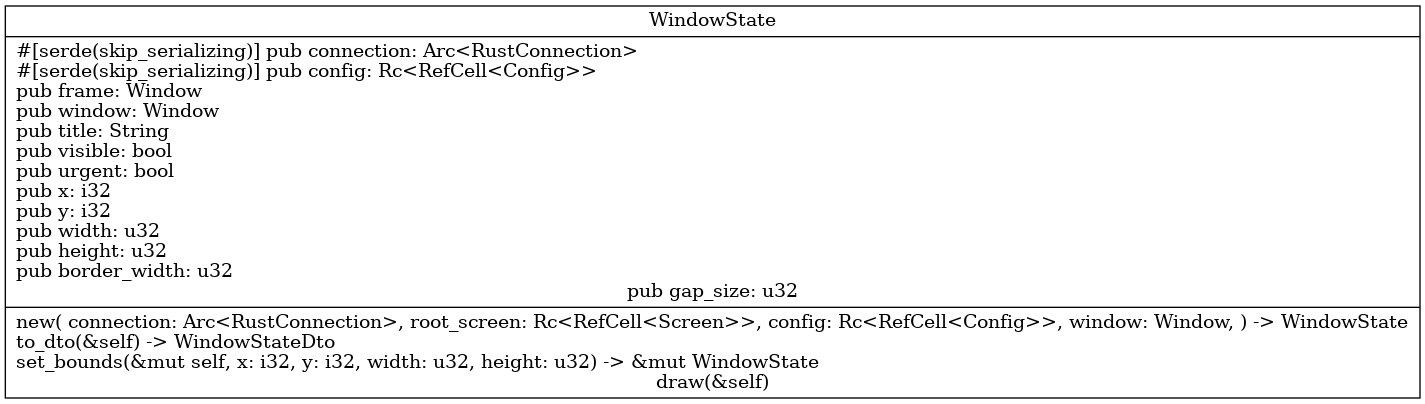
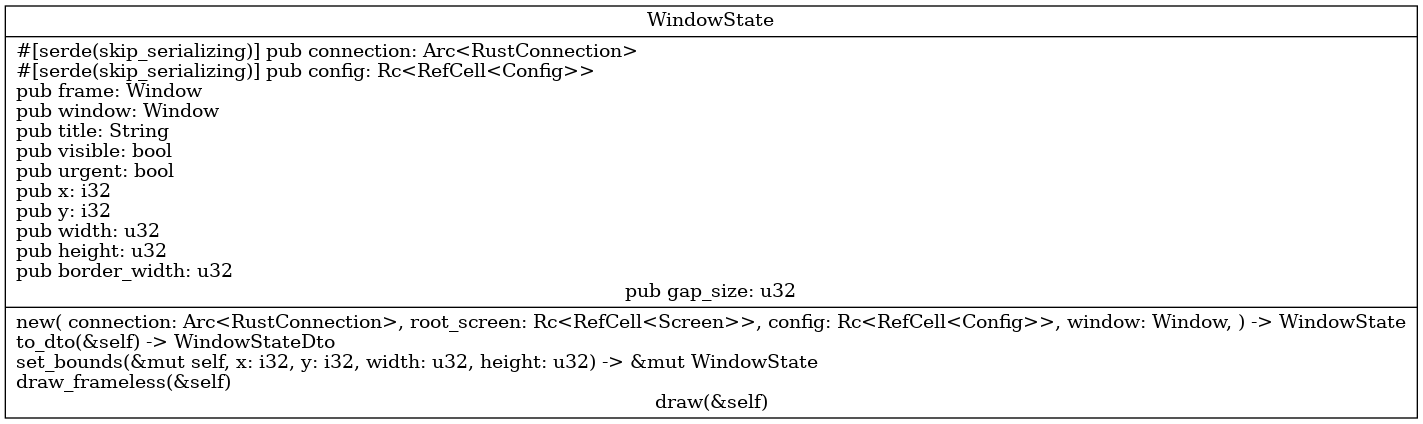
remove borders of fullscreen windows

Changed region(s): [[0.0, 0.0, 1.0, 1.0]]

diff --git a/src/windowstate.rs b/src/windowstate.rs
@@ -122,6 +122,28 @@ impl WindowState {
         return self;
     }
 
+    pub fn draw_frameless(&self) {
+        self.connection.grab_server().unwrap();
+        self.connection.unmap_window(self.frame).unwrap();
+        self.connection.unmap_window(self.window).unwrap();
+
+        let window_aux = ConfigureWindowAux::new()
+            .x(self.x)
+            .y(self.y)
+            .width(self.width)
+            .height(self.height);
+
+        self.connection
+            .configure_window(self.window, &window_aux)
+            .unwrap();
+
+        self.connection.map_window(self.frame).unwrap();
+        self.connection.map_window(self.window).unwrap();
+
+        self.connection.ungrab_server().unwrap();
+        self.connection.flush().unwrap();
+    }
+
     pub fn draw(&self) {
         self.connection.grab_server().unwrap();
         self.connection.unmap_window(self.frame).unwrap();

diff --git a/src/workspace/mod.rs b/src/workspace/mod.rs
@@ -308,7 +308,7 @@ impl Workspace {
             let window = self.windows.get_mut(&fs_win).unwrap();
             window
                 .set_bounds(0, 0, screen_size.width as u32, screen_size.height as u32)
-                .draw();
+                .draw_frameless();
             self.connection.flush().unwrap();
         } else {
             match self.layout {

diff --git a/docs/source/033_class_diagrams_generated/windowmanager/index.rst b/docs/source/033_class_diagrams_generated/windowmanager/index.rst
@@ -11,32 +11,23 @@ All shown class diagrams are **automatically generated**.
 .. toctree::
         :maxdepth: 3
 
-        screeninfo/index
-        eventhandler/index
-        workspace/index
-        windowmanager/index
         config/index
+        eventhandler/index
+        screeninfo/index
         setup/index
+        windowmanager/index
+        workspace/index
 
 .. hint:: If the diagrams are not shown big enough to read, please click on them.
 
-keybindings
+auxiliary
 -------------------------------------------------------------------------------------
 
-.. figure:: ../../../../planning/diagrams/classdg_generated/windowmanager/keybindings.png
+.. figure:: ../../../../planning/diagrams/classdg_generated/windowmanager/auxiliary.png
     :align: center
     :width: 750px
 
-    keybindings.png
-
-windowstate
--------------------------------------------------------------------------------------
-
-.. figure:: ../../../../planning/diagrams/classdg_generated/windowmanager/windowstate.png
-    :align: center
-    :width: 750px
-
-    windowstate.png
+    auxiliary.png
 
 ipc
 -------------------------------------------------------------------------------------
@@ -47,6 +38,15 @@ ipc
 
     ipc.png
 
+keybindings
+-------------------------------------------------------------------------------------
+
+.. figure:: ../../../../planning/diagrams/classdg_generated/windowmanager/keybindings.png
+    :align: center
+    :width: 750px
+
+    keybindings.png
+
 main
 -------------------------------------------------------------------------------------
 
@@ -56,12 +56,12 @@ main
 
     main.png
 
-auxiliary
+windowstate
 -------------------------------------------------------------------------------------
 
-.. figure:: ../../../../planning/diagrams/classdg_generated/windowmanager/auxiliary.png
+.. figure:: ../../../../planning/diagrams/classdg_generated/windowmanager/windowstate.png
     :align: center
     :width: 750px
 
-    auxiliary.png
+    windowstate.png
 

diff --git a/docs/source/033_class_diagrams_generated/extensions/oxide-bar/index.rst b/docs/source/033_class_diagrams_generated/extensions/oxide-bar/index.rst
@@ -6,6 +6,15 @@ oxide-bar
 
 .. hint:: If the diagrams are not shown big enough to read, please click on them.
 
+xcb visualtype
+-------------------------------------------------------------------------------------
+
+.. figure:: ../../../../../planning/diagrams/classdg_generated/extensions/oxide-bar/xcb_visualtype.png
+    :align: center
+    :width: 750px
+
+    xcb_visualtype.png
+
 config
 -------------------------------------------------------------------------------------
 
@@ -23,13 +32,4 @@ main
     :width: 750px
 
     main.png
-
-xcb visualtype
--------------------------------------------------------------------------------------
-
-.. figure:: ../../../../../planning/diagrams/classdg_generated/extensions/oxide-bar/xcb_visualtype.png
-    :align: center
-    :width: 750px
-
-    xcb_visualtype.png
 

diff --git a/docs/source/033_class_diagrams_generated/windowmanager/workspace/index.rst b/docs/source/033_class_diagrams_generated/windowmanager/workspace/index.rst
@@ -6,6 +6,15 @@ workspace
 
 .. hint:: If the diagrams are not shown big enough to read, please click on them.
 
+workspace
+-------------------------------------------------------------------------------------
+
+.. figure:: ../../../../../planning/diagrams/classdg_generated/windowmanager/workspace/mod.png
+    :align: center
+    :width: 750px
+
+    mod.png
+
 parse error
 -------------------------------------------------------------------------------------
 
@@ -23,13 +32,4 @@ workspace navigation
     :width: 750px
 
     workspace_navigation.png
-
-workspace
--------------------------------------------------------------------------------------
-
-.. figure:: ../../../../../planning/diagrams/classdg_generated/windowmanager/workspace/mod.png
-    :align: center
-    :width: 750px
-
-    mod.png
 

diff --git a/docs/source/033_class_diagrams_generated/windowmanager/eventhandler/index.rst b/docs/source/033_class_diagrams_generated/windowmanager/eventhandler/index.rst
@@ -6,15 +6,6 @@ eventhandler
 
 .. hint:: If the diagrams are not shown big enough to read, please click on them.
 
-eventhandler
--------------------------------------------------------------------------------------
-
-.. figure:: ../../../../../planning/diagrams/classdg_generated/windowmanager/eventhandler/mod.png
-    :align: center
-    :width: 750px
-
-    mod.png
-
 events
 -------------------------------------------------------------------------------------
 
@@ -23,4 +14,13 @@ events
     :width: 750px
 
     events.png
+
+eventhandler
+-------------------------------------------------------------------------------------
+
+.. figure:: ../../../../../planning/diagrams/classdg_generated/windowmanager/eventhandler/mod.png
+    :align: center
+    :width: 750px
+
+    mod.png
 

diff --git a/docs/source/033_class_diagrams_generated/extensions/index.rst b/docs/source/033_class_diagrams_generated/extensions/index.rst
@@ -11,8 +11,8 @@ All shown class diagrams are **automatically generated**.
 .. toctree::
         :maxdepth: 3
 
-        oxide-msg/index
         oxide-bar/index
         oxide-ipc/index
+        oxide-msg/index
 
 
